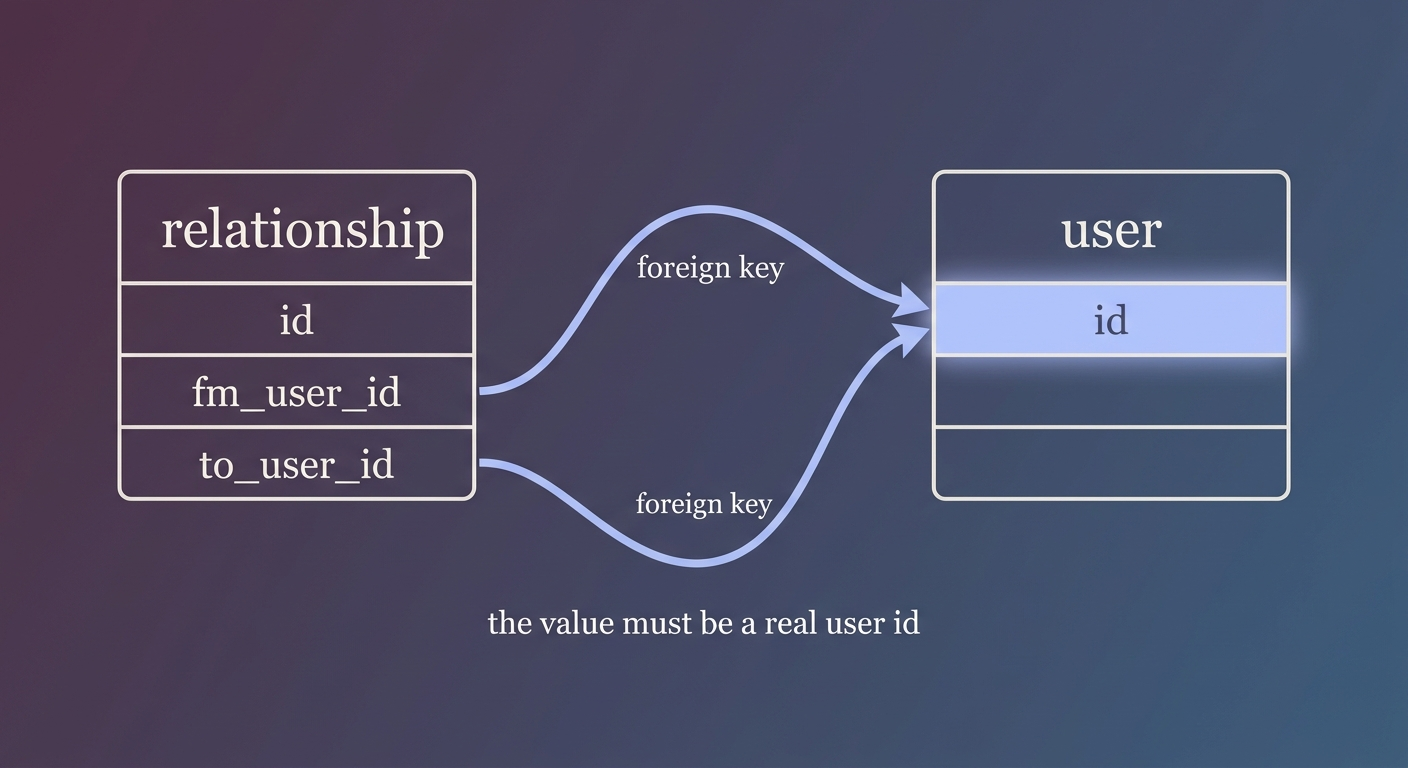
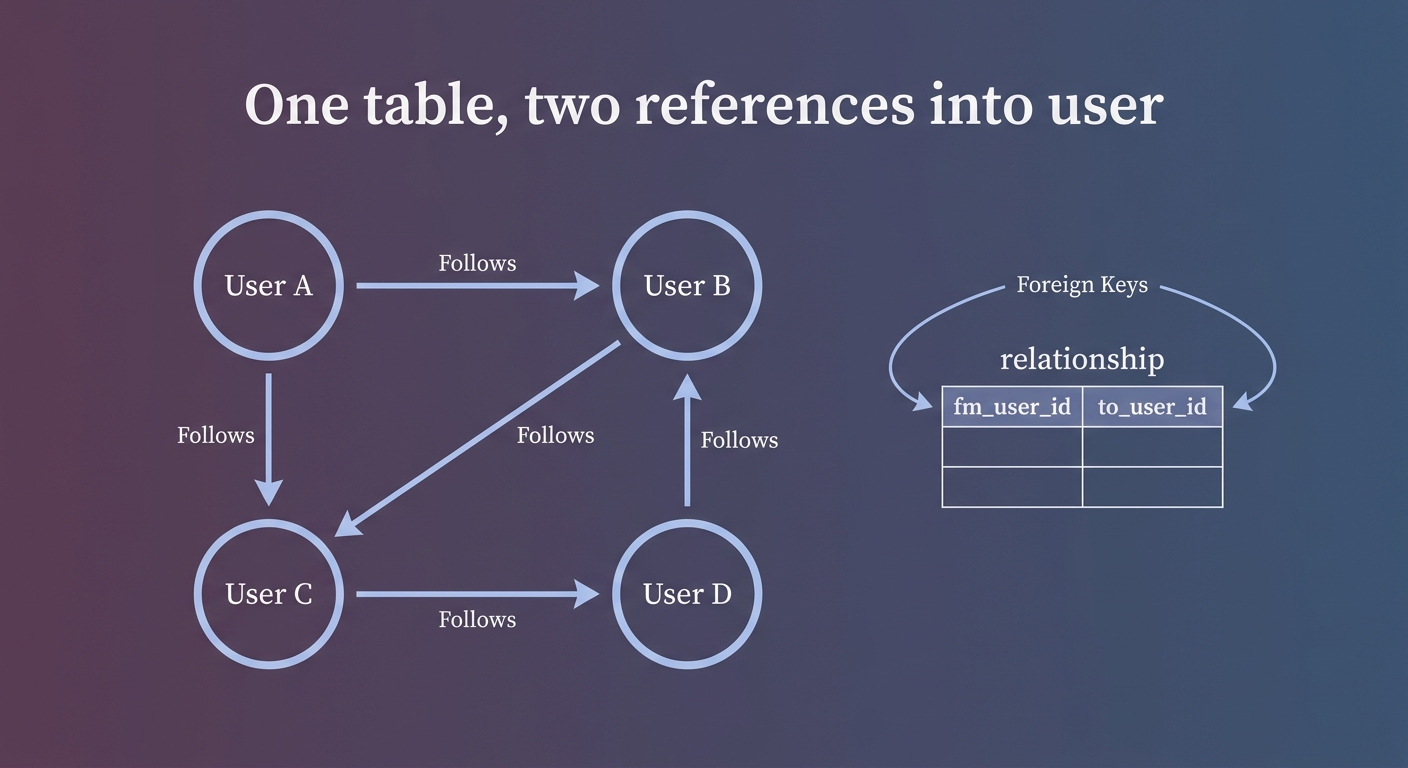
Sync manuscript from main

Changed region(s): [[0.0625, 0.2188, 0.9375, 0.875], [0.1562, 0.0938, 0.8438, 0.1875], [0.1562, 0.8438, 0.2188, 0.875]]

diff --git a/manuscript/5_QuartFeed_PostgreSQL_DB_FriendFeed_Clone.md b/manuscript/5_QuartFeed_PostgreSQL_DB_FriendFeed_Clone.md
@@ -767,6 +767,8 @@ This table is interesting because it points back at the `user` table twice. Each
 
 Both columns are foreign keys to `user.id`. A foreign key tells the database these values must be real user ids, so we can never have a follow that points at a user who doesn't exist. A single table referencing another table from two different columns like this is how you model a graph of connections between rows of the same kind.
 
+![One relationship table references the user table from two columns, fm_user_id and to_user_id, modelling a graph of follows between users.](images/5.5-scene3-img3.png)
+
 [Save the file](https://fmze.co/fftq-5.5.2).
 
 Now the views. Create `relationship/views.py`: